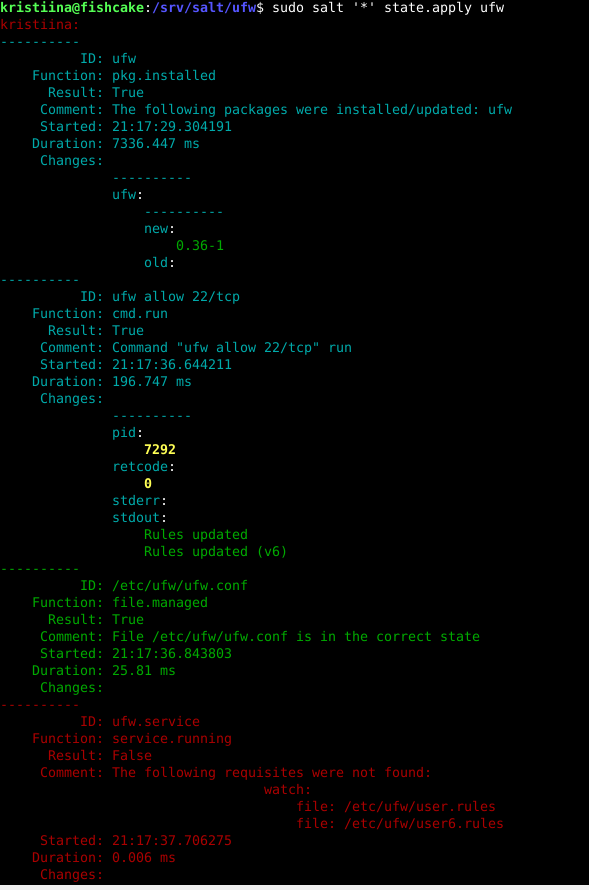
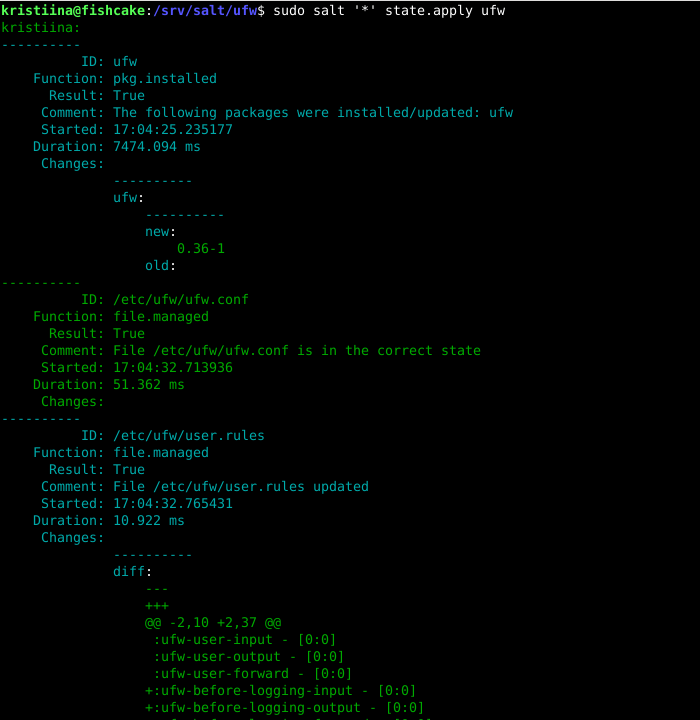
ufw resolved

diff --git a/3rd_week.md b/3rd_week.md
@@ -134,7 +134,7 @@ $ sudo ufw allow 22/tcp
 $ sudo ufw enable
 
 ```
-Tutkin jälleen muttuneita tiedostoja.
+Tutkin jälleen muuttuneita tiedostoja.
 
 ![muuttuneet2](/pictures/7.png)
 
@@ -279,10 +279,60 @@ Poistin jälleen ufw:n asennuksen ja ajoin tilan uudelleen. Viimeinen muokkaus e
 
 Kello oli tässä vaiheessa noin 21:15. Päätin jatkaa tehtäviä myöhemmin.
 
+Sunnuntaina 18.4.2021 klo 16:45
+
+Tein tämän kohdan aikaisemmin, ja raportoin sen tähän muistinvaraisesti.
+
+Tajusin (ystäväni avustuksella) tutkia kansioiden oikeuksia. Kansiolla user.rules ja user6.rules, ei ollut
+tarvittavia oikeuksia ohjelman suorittamiseen. Korjasin tämän komennolla `$ sudo chmod 777 *.rules
+`, joka antoi laajat oikeudet kaikille. Oikeudet ovat ehkä liian laajat, mutta toimivat tähän tarkoitukseen. 
+
+Ajettuani tilan komennolla `$ sudo salt '*' state.apply ufw`, vastauksena tuli onnistuminen kaikille tilan kohdille.
+Tutkin vielä ufw:n tilaa komennolla `sudo ufw status verbose`, jolloin huomasin ufw:n olevan vielä pois päältä.
+Tiedoston /srv/salt/ufw/init.sls lopputulos näyttää seuraavalta: 
+
+```
+ufw:
+   pkg.installed
+
+/etc/ufw/ufw.conf:
+  file.managed:
+    - source: salt://ufw/ufw.conf
+
+/etc/ufw/user.rules:
+  file.managed:
+    - source: salt://ufw/user.rules
+    - target: ../user.rules
+
+/etc/ufw/user6.rules:
+  file.managed:
+    - source: salt://ufw/user6.rules
+    - target: ../user6.rules
+
+'ufw enable':
+  cmd.run
+
+ufw.service:
+  service.running:
+    - watch:
+      - file: /etc/ufw/user.rules
+      - file: /etc/ufw/user6.rules
+      - file: /etc/ufw/ufw.conf
+
+```
+Pitäisköhän kohtaan "ufw enable" lisätä rivi, jotta ajettaminen tehtäisiin vain, jos ohjelma ei ole jo päällä?
+
+Poistin jälleen ufw:n asennuksen ja ajoin tilan uudelleen.
+![ufw lopputulos](/pictures/11.png)
+![ufw lopputulos](/pictures/12.png)
+![ufw lopputulos](/pictures/13.png)
 
 
 ----
 
 Lähteet:
 <http://terokarvinen.com/2016/publish-your-project-with-github/>,
+
 <https://terokarvinen.com/2018/apache-user-homepages-automatically-salt-package-file-service-example/>
+
+Lauri Koskinen
